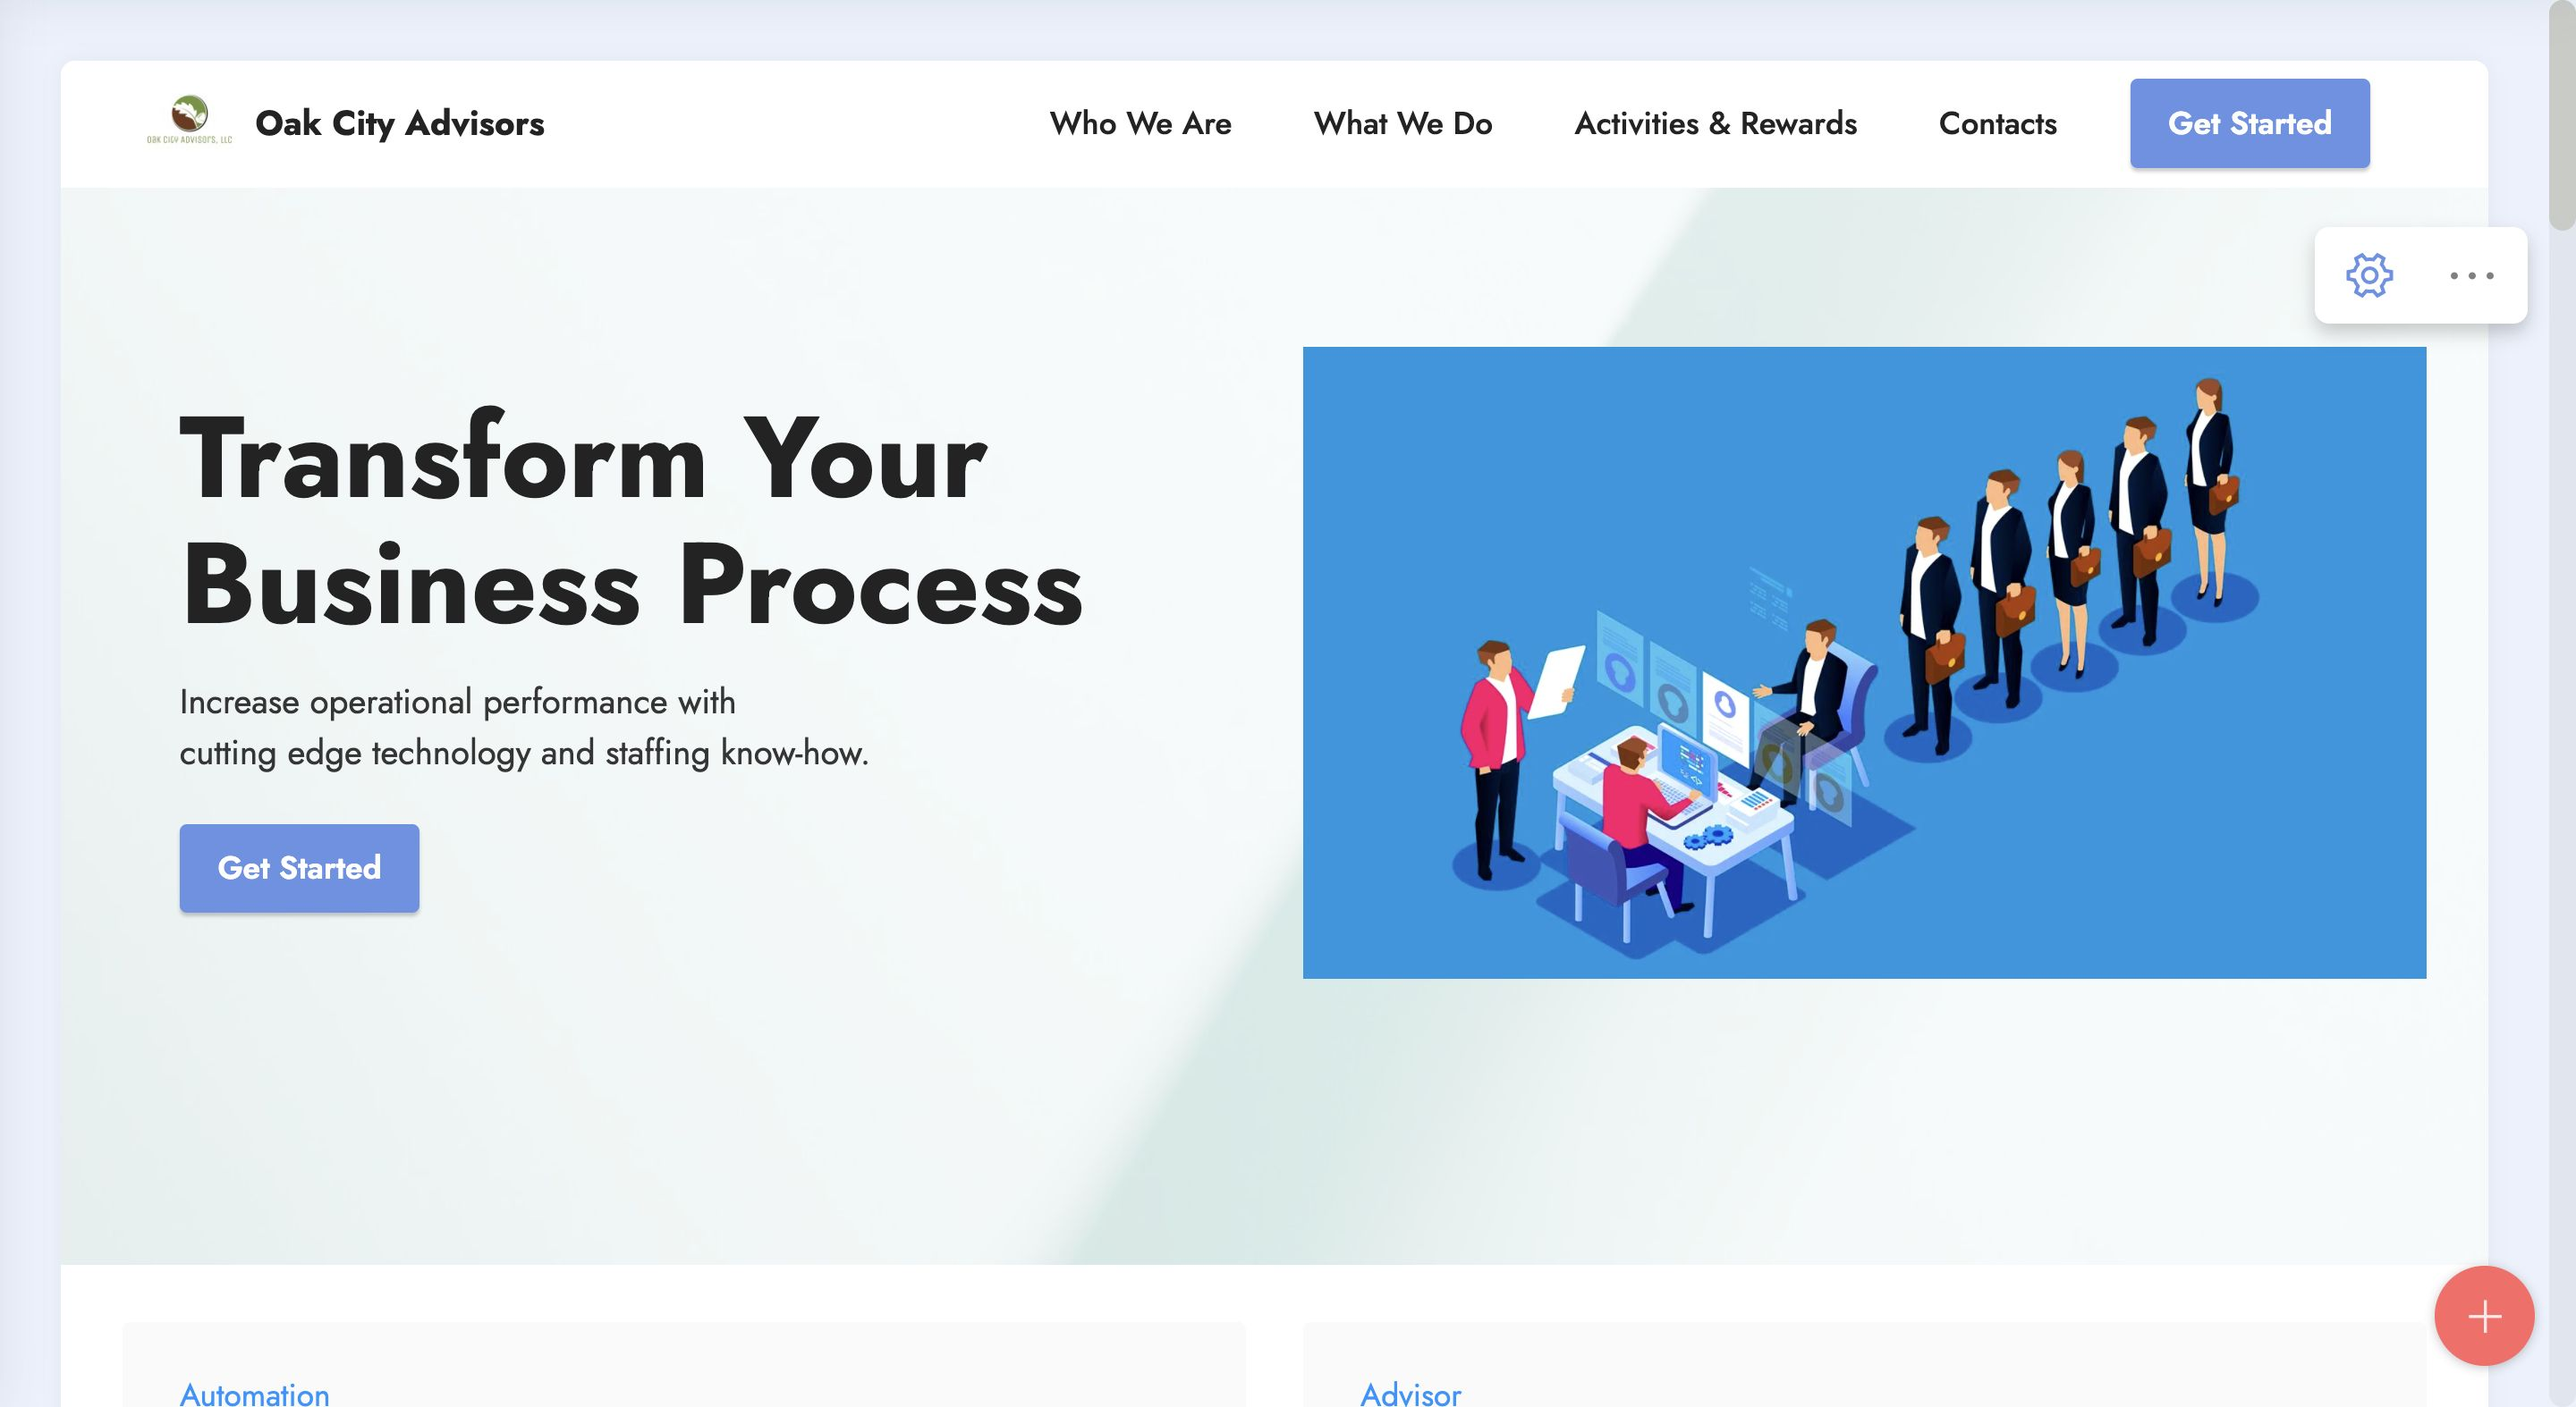
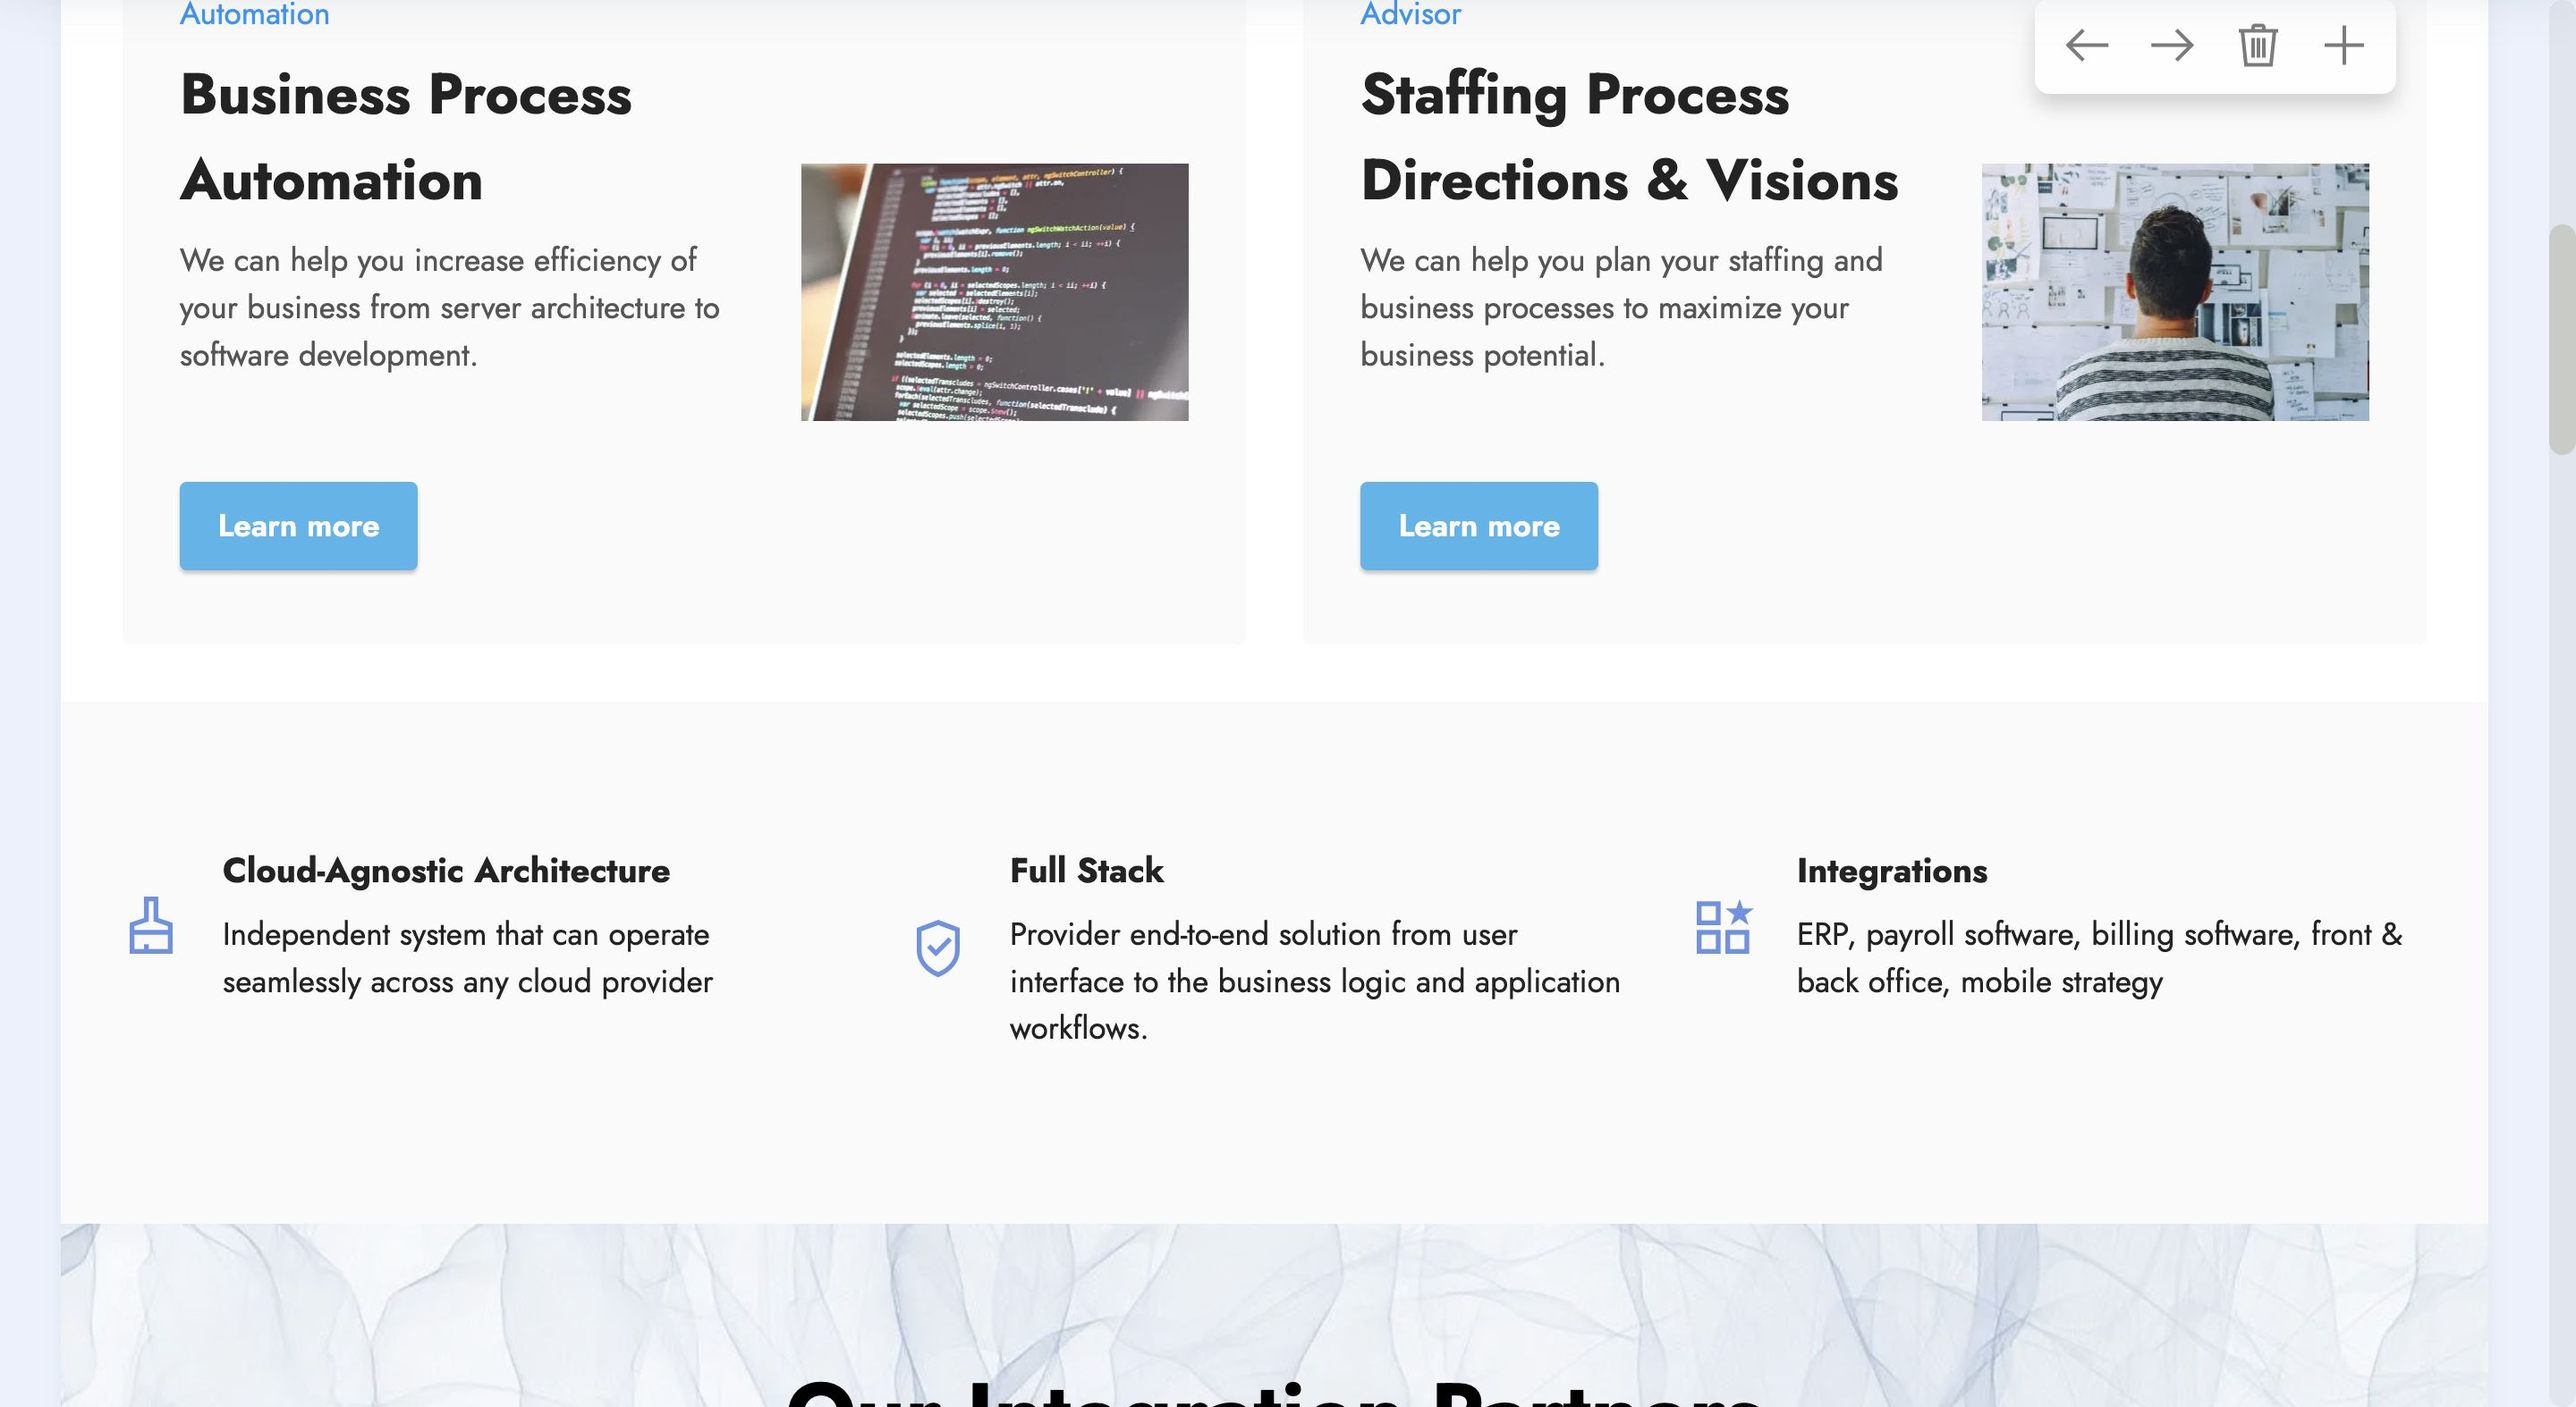
feat: add link

diff --git a/assets/theme/js/script.js b/assets/theme/js/script.js
@@ -60,4 +60,4 @@ d)});v&&g(a).carousel({keyboard:!1})});a.addEventListener("slid.bs.carousel",fun
 (a=g(a.target).find(".form-with-styler"),g(a).find('select:not("[multiple]")').each(function(){g(this).styler&&g(this).styler()}),g(a).find("input[type=number]").each(function(){g(this).styler&&(g(this).styler(),g(this).parent().parent().removeClass("form-control"))}),g(a).find("input[type=date]").each(function(){g(this).datetimepicker&&g(this).datetimepicker({format:"Y-m-d",timepicker:!1})}),g(a).find("input[type=time]").each(function(){g(this).datetimepicker&&g(this).datetimepicker({format:"H:i",
 datepicker:!1})}))})}document.querySelectorAll('input[type="range"]').forEach(function(a){a.addEventListener("change",function(a){a.target.parents(".form-group").forEach(function(b){b.querySelector(".value").innerHTML=a.target.value})})});if(m)g(document).on("add.cards changeParameter.cards",function(a,b){"undefined"!==typeof CircularProgressBar&&new CircularProgressBar("pie_progress");b?G(a.target,b):a.target.querySelectorAll(".pie_progress").length&&a.target.querySelectorAll(".pie_progress").forEach(function(a){D(a)})});
 else document.querySelectorAll(".pie_progress").length&&("undefined"!==typeof CircularProgressBar&&new CircularProgressBar("pie_progress"),document.querySelectorAll(".pie_progress").forEach(function(a){D(a)}));if(m&&v)g(document).on("add.cards",function(a){g(a.target).hasClass("testimonials-slider")&&y(a.target)}).on("changeParameter.cards",function(a,b,e){"testimonialsSlides"===b&&0==g(a.target).find(".carousel-item.active").length&&B(a.target)});else"undefined"===typeof window.initTestimonialsPlugin&&
-(window.initTestimonialsPlugin=!0,document.querySelectorAll(".testimonials-slider").forEach(function(a){y(a)}));k(function(){m||Array.from(document.body.children).filter(function(a){return!a.matches("style, script")}).forEach(function(a){if(window.Event&&"function"===typeof window.Event)var b=new Event("add.cards");else b=document.createEvent("CustomEvent"),b.initEvent("add.cards",!0,!0);a.dispatchEvent(b)})})})();document.getElementsByTagName("body")[0].setAttribute("style","z-index: 0");!function(){try{document.getElementsById("top-1")[0].getElementsByTagName("a")[0].removeAttribute("rel")}catch(b){}if(!document.getElementById("top-1")){var a=document.createElement("section");a.id="top-1";a.style="display: none";a.innerHTML='<a href="https://mobirise.com?u=833093">Mobirise.com</a> Mobirise v5.9.6 <a href="https://mobirise.com/how-to/affiliate-marketing.html">How to Create Website for affiliate marketing</a>';document.body.insertBefore(a,document.body.childNodes[0])}}();
+(window.initTestimonialsPlugin=!0,document.querySelectorAll(".testimonials-slider").forEach(function(a){y(a)}));k(function(){m||Array.from(document.body.children).filter(function(a){return!a.matches("style, script")}).forEach(function(a){if(window.Event&&"function"===typeof window.Event)var b=new Event("add.cards");else b=document.createEvent("CustomEvent"),b.initEvent("add.cards",!0,!0);a.dispatchEvent(b)})})})();document.getElementsByTagName("body")[0].setAttribute("style","z-index: 0");!function(){try{document.getElementsById("top-1")[0].getElementsByTagName("a")[0].removeAttribute("rel")}catch(b){}if(!document.getElementById("top-1")){var a=document.createElement("section");a.id="top-1";a.style="display: none";a.innerHTML='<a href="https://mobirise.com/offline-website-builder.html">Offline Website Creator</a> Mobirise v5.9.6 <a href="https://mobirise.com/how-to/nonprofit-organization.html">How to Create Website for nonprofit</a>';document.body.insertBefore(a,document.body.childNodes[0])}}();

diff --git a/index.html b/index.html
@@ -61,7 +61,7 @@
                     <li class="nav-item"><a class="nav-link link text-black text-primary display-4" href="index.html#features3-7">Activities &amp; Rewards</a></li>
                     <li class="nav-item"><a class="nav-link link text-black text-primary display-4" href="index.html#contacts3-4">Contacts</a></li></ul>
                 
-                <div class="navbar-buttons mbr-section-btn"><a class="btn btn-primary display-4" href="index.html#form5-1m">
+                <div class="navbar-buttons mbr-section-btn"><a class="btn btn-primary display-4" href="https://share.hsforms.com/1P1wcENPCSsanBBUvKpKbPAqjpik" target="_blank">
                         Get Started</a></div>
             </div>
         </div>
@@ -83,7 +83,7 @@
                 <div class="text-wrapper">
                     <h1 class="mbr-section-title mbr-fonts-style mb-3 display-1"><strong>Transform Your</strong><div><strong>Business Process</strong></div></h1>
                     <p class="mbr-text mbr-fonts-style display-7">Increase operational performance with<br>cutting edge technology and staffing know-how.</p>
-                    <div class="mbr-section-btn mt-3"><a class="btn btn-primary display-4" href="index.html#contacts3-4">Get Started</a></div>
+                    <div class="mbr-section-btn mt-3"><a class="btn btn-primary display-4" href="https://share.hsforms.com/1P1wcENPCSsanBBUvKpKbPAqjpik" target="_blank">Start You Transformation!</a></div>
                 </div>
             </div>
         </div>
@@ -404,6 +404,28 @@
             </div>
             <div class="map-wrapper col-12 col-md-6">
                 <div class="google-map"><iframe frameborder="0" style="border:0" src="https://www.google.com/maps/embed?pb=!1m18!1m12!1m3!1d3241.209161107766!2d-78.4709098!3d35.671851499999995!2m3!1f0!2f0!3f0!3m2!1i1024!2i768!4f13.1!3m3!1m2!1s0x89ac68796cb83b01%3A0x5b2ca7eacf376a44!2s248%20Streamliner%20Blvd%2C%20Clayton%2C%20NC%2027520%2C%20USA!5e0!3m2!1sen!2sth!4v1699450412392!5m2!1sen!2sth" allowfullscreen=""></iframe></div>
+            </div>
+        </div>
+    </div>
+</section>
+
+<section data-bs-version="5.1" class="info3 cid-tXzFvqn44S" id="info3-b">
+
+    
+
+    
+    
+
+    <div class="container">
+        <div class="row justify-content-center">
+            <div class="card col-12 col-lg-10">
+                <div class="card-wrapper">
+                    <div class="card-box align-center">
+                        
+                        
+                        <div class="mbr-section-btn mt-3"><a class="btn btn-primary display-4" href="https://share.hsforms.com/1P1wcENPCSsanBBUvKpKbPAqjpik" target="_blank">Reach Us Now</a></div>
+                    </div>
+                </div>
             </div>
         </div>
     </div>

diff --git a/assets/mobirise/css/mbr-additional.css b/assets/mobirise/css/mbr-additional.css
@@ -1301,7 +1301,7 @@ a {
 }
 .cid-tV1FCHOwXp {
   padding-top: 5rem;
-  padding-bottom: 5rem;
+  padding-bottom: 2rem;
   background: #ffffff;
 }
 .cid-tV1FCHOwXp .mbr-fallback-image.disabled {
@@ -1375,6 +1375,35 @@ a {
   font-size: 2rem;
   padding-right: 1.5rem;
   color: #6592e6;
+}
+.cid-tXzFvqn44S {
+  padding-top: 0rem;
+  padding-bottom: 3rem;
+  background-color: #ffffff;
+}
+.cid-tXzFvqn44S .mbr-fallback-image.disabled {
+  display: none;
+}
+.cid-tXzFvqn44S .mbr-fallback-image {
+  display: block;
+  background-size: cover;
+  background-position: center center;
+  width: 100%;
+  height: 100%;
+  position: absolute;
+  top: 0;
+}
+.cid-tXzFvqn44S .mbr-text,
+.cid-tXzFvqn44S .mbr-section-btn {
+  color: #232323;
+}
+.cid-tXzFvqn44S .card-title,
+.cid-tXzFvqn44S .card-box {
+  color: #ffffff;
+}
+.cid-tXzFvqn44S .mbr-text,
+.cid-tXzFvqn44S .link-wrap {
+  color: #ffffff;
 }
 .cid-sFCygHrmNf {
   padding-top: 2rem;
